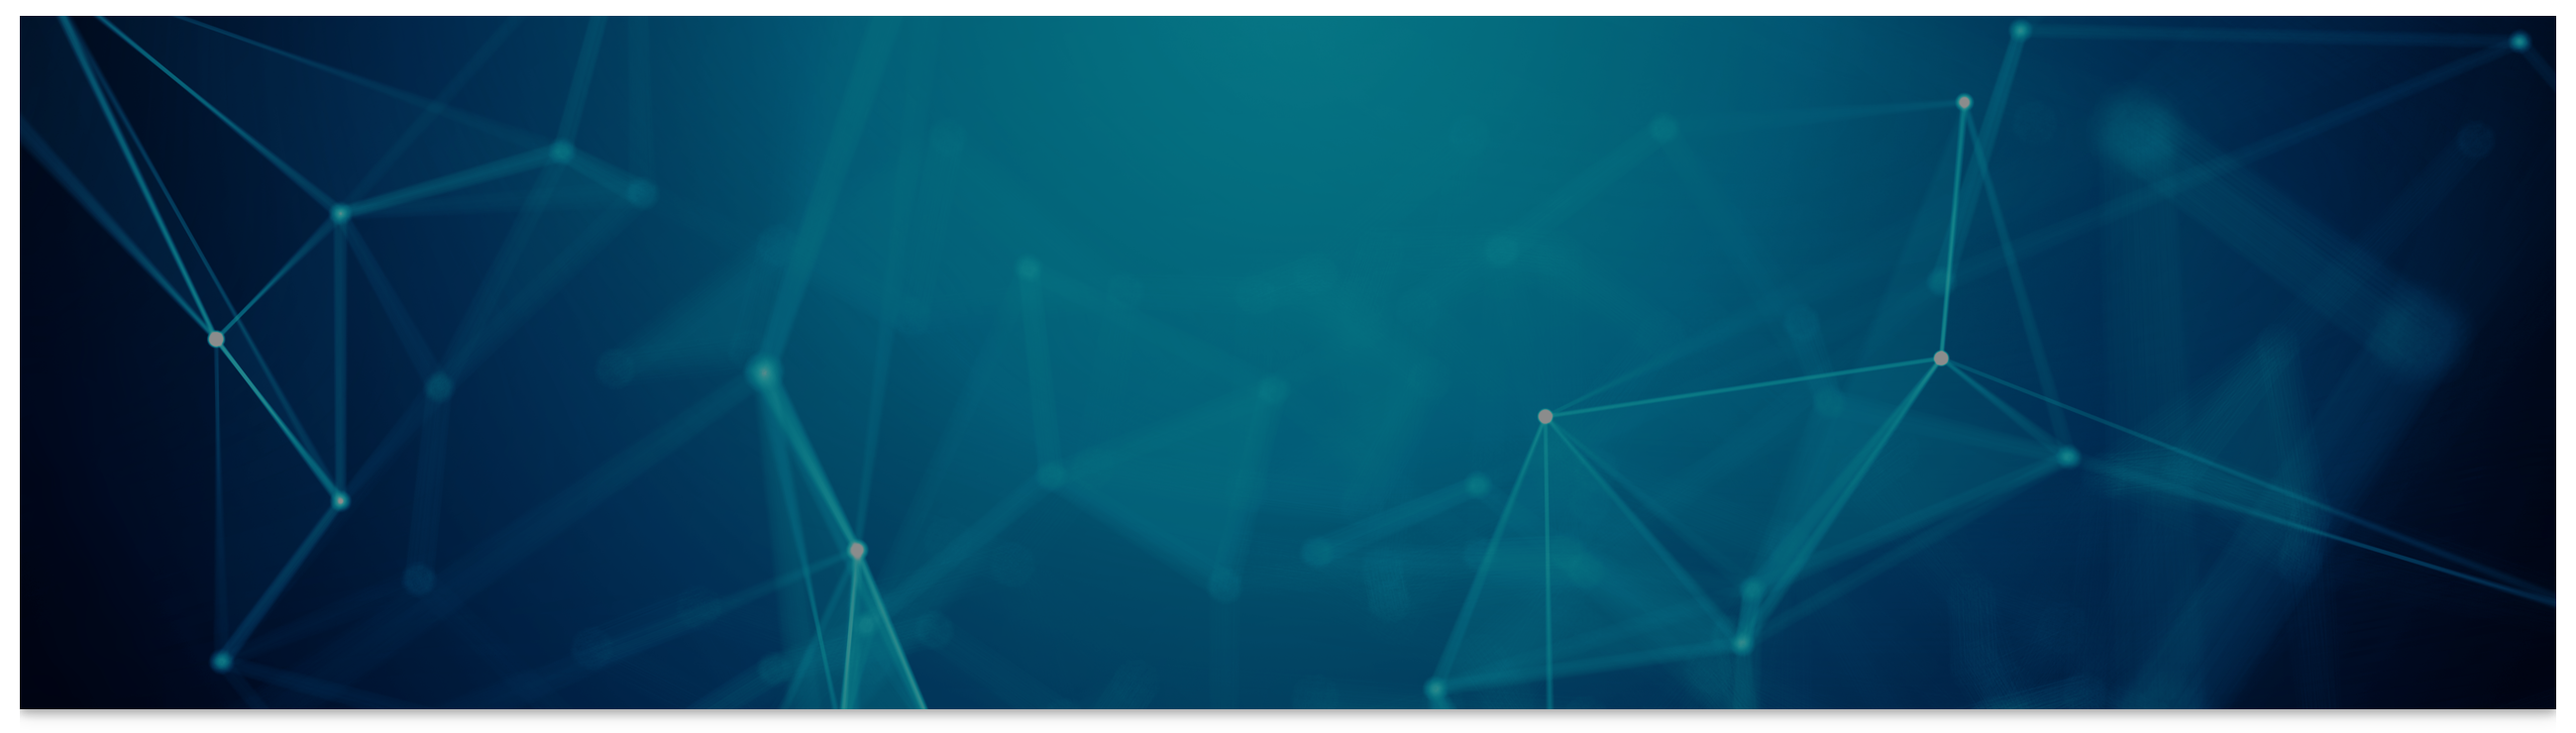
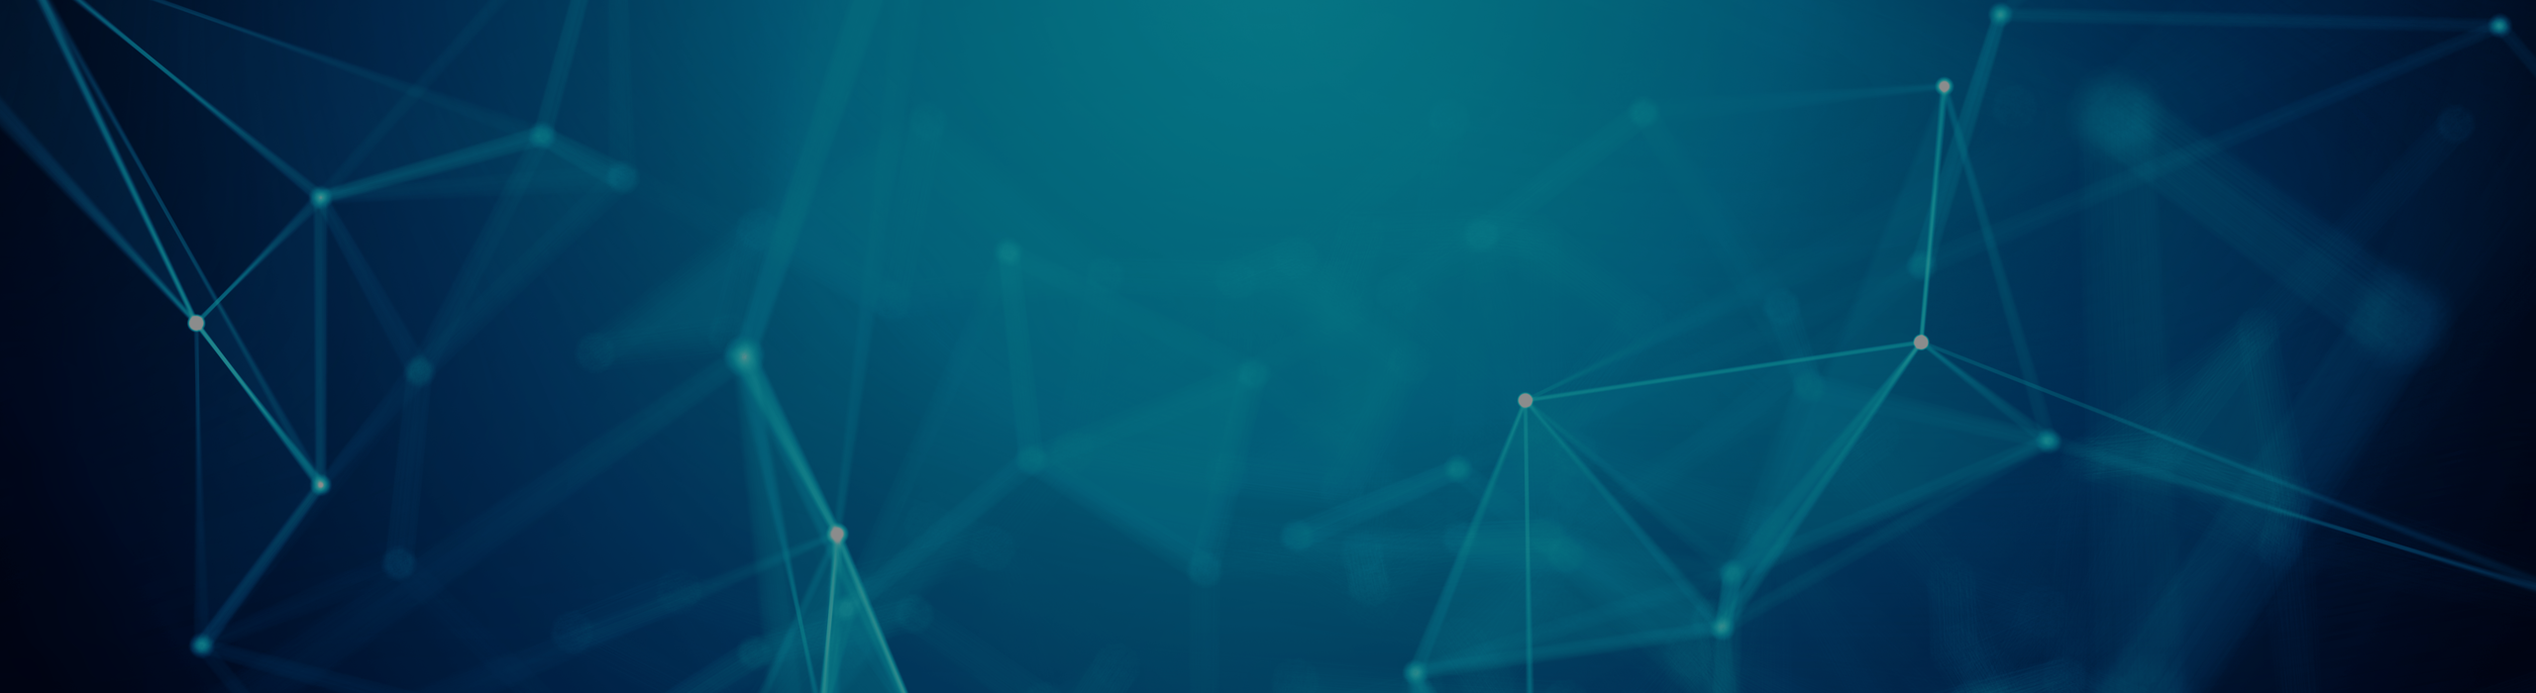
make top image flush with header

diff --git a/src/pages/Home.js b/src/pages/Home.js
@@ -89,8 +89,8 @@ class Home extends Component {
 
       div({ className: 'row' }, [
         div({ className: 'col-lg-12 col-md-12 col-sm-12 col-xs-12' }, [
-          div({ className: 'row no-margin', style: { backgroundColor: 'white', height: '350px', position: 'relative' }}, [
-            img({ style: { height: 'inherit', minWidth: '100%', transform: 'scale(1.1,1)' }, src: '/images/home_header_background.png'}),
+          div({ className: 'row', style: { backgroundColor: 'white', height: '350px', position: 'relative', margin: '-20px auto auto 0' }}, [
+            img({ style: { height: 'inherit', minWidth: '100%' }, src: '/images/home_header_background.png'}),
             div({ style: { position: 'absolute', width: '100%', top: '50%', left: '50%', transform: 'translate(-50%, -50%)'}}, [
               img({ style: duosLogo , alt: 'DUOS logo', src: '/images/duos_logo.svg' }),
               h1({ style: homeTitle }, ['Data Use Oversight System']),
@@ -131,13 +131,13 @@ class Home extends Component {
             div({ className: 'col-lg-4 col-lg-offset-2 col-md-4 col-md-offset-2' }, [
               p({ style: header }, ['Are you a researcher?']),
               p({ style: description }, [
-                'Click here to register and start your data access request!']),
+                'Click here to start your data access request!']),
               div({className:'row', style: { display: 'flex', justifyContent: 'center' }}, [
                 button({ className: 'btn-primary', style: buttonStyle }, [
                   a({
                     href: 'https://accounts.google.com/SignUp?continue:https%3A%2F%2Faccounts.google.com%2Fo%2Foauth2%2Fauth%3Fopenid.realm%26scope%3Demail%2Bprofile%2Bopenid%26response_type%3Dpermission%26redirect_uri%3Dstoragerelay%3A%2F%2Fhttp%2Flocalhost%3A8000%3Fid%253Dauth721210%26ss_domain%3Dhttp%3A%2F%2Flocalhost%3A8000%26client_id%3D832251491634-smgc3b2pogqer1mmdrd3hrqic3leof3p.apps.googleusercontent.com%26fetch_basic_profile%3Dtrue%26hl%3Des-419%26from_login%3D1%26as%3D43c5de35a7316d00&ltmpl:popup',
                     style: { color: '#fff' }}, [
-                      'REGISTER'
+                    'REGISTER'
                   ])
                 ])
               ])
